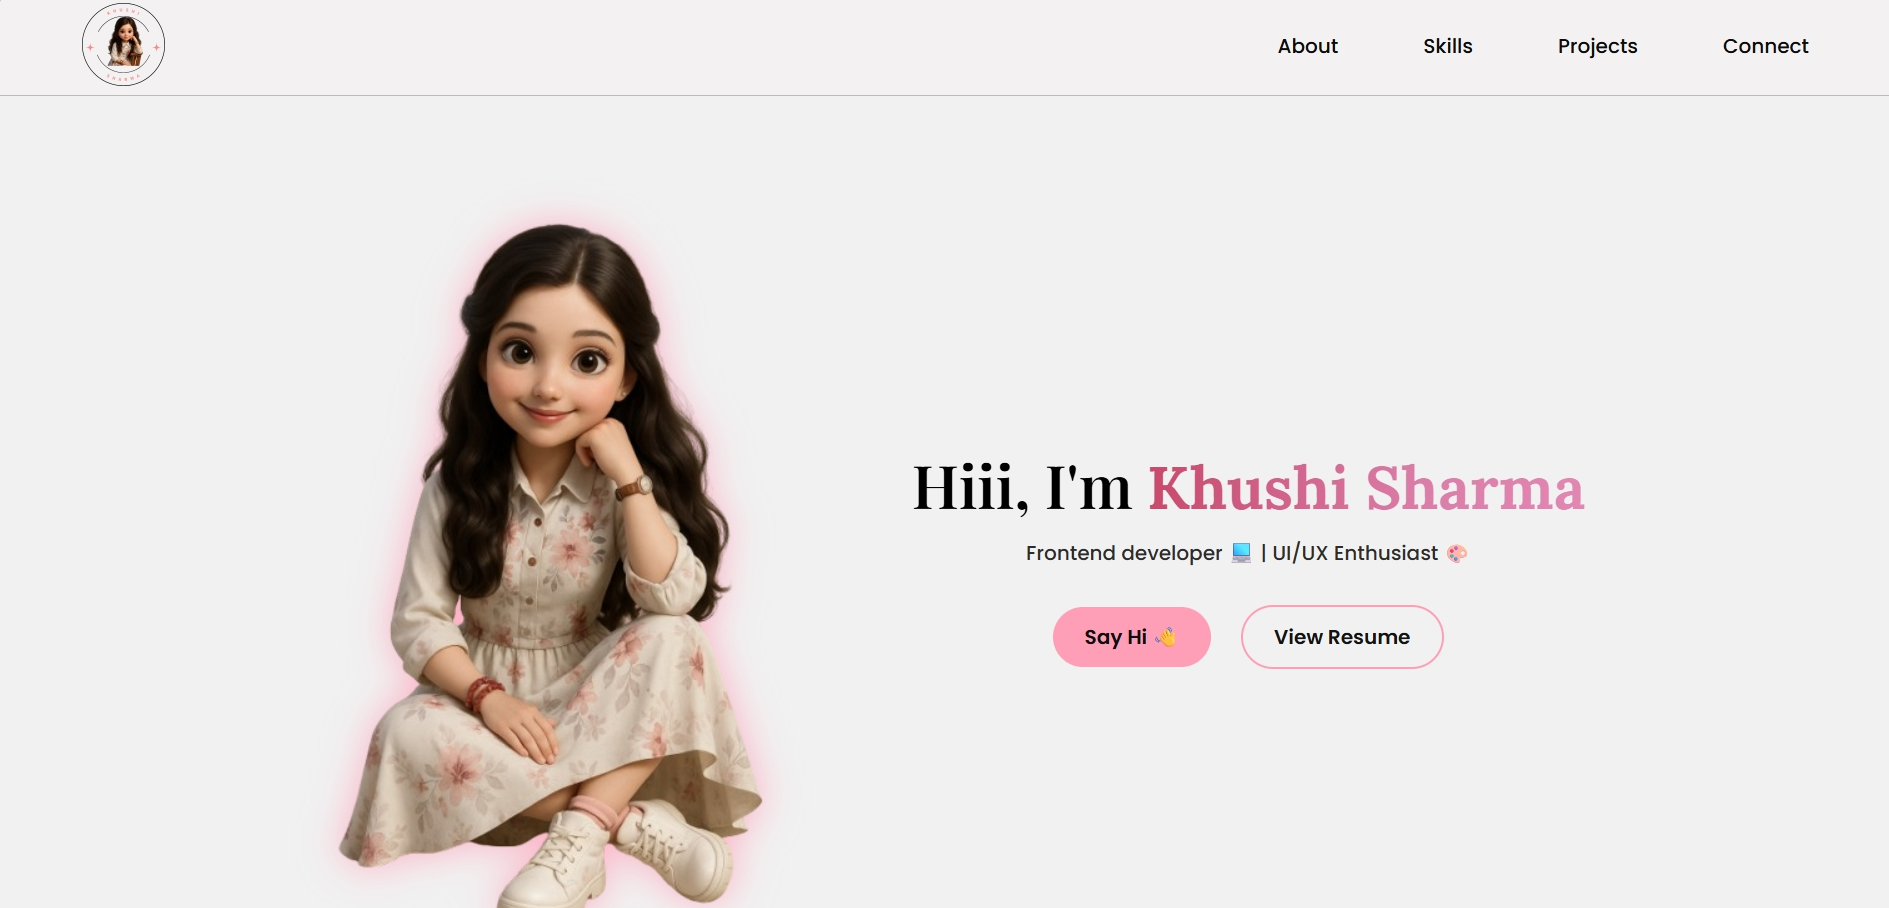
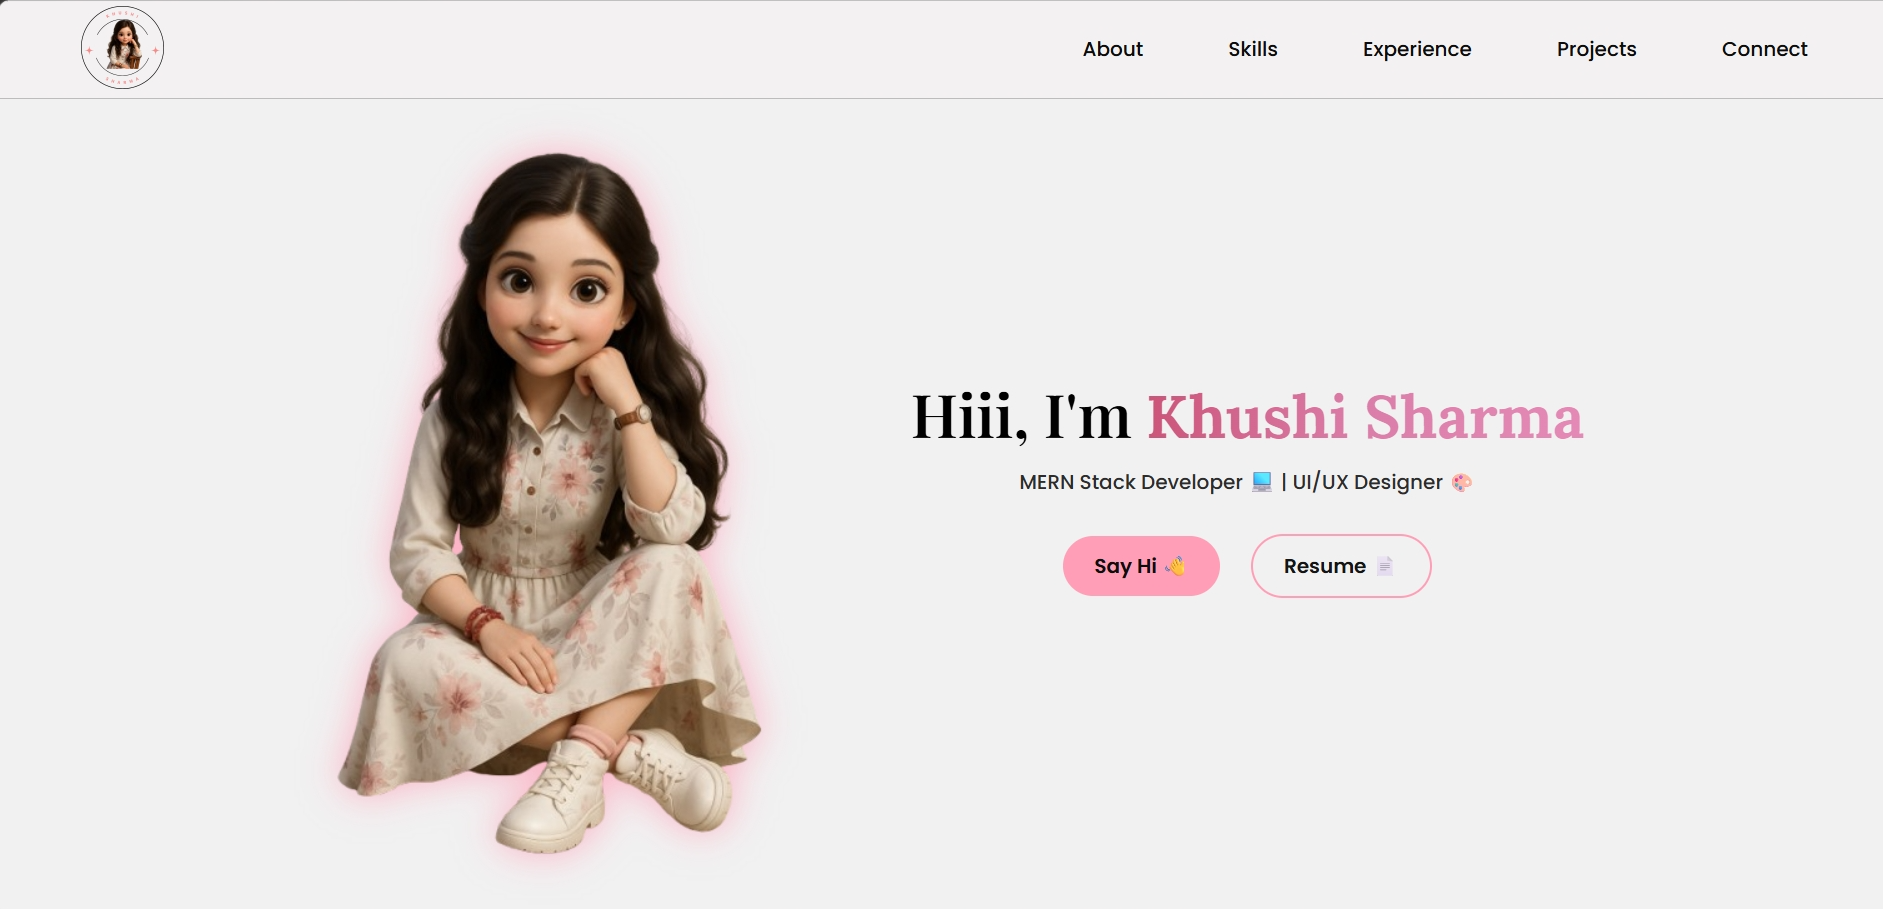
update the pages

diff --git a/design-projects.html b/design-projects.html
@@ -18,31 +18,31 @@
       <!-- first project -->
 
       <div class="project-card">
-        <img src="img/avengers.png" alt="avengers-img" />
+        <img src="img/recipe-design.png" alt="recipe-design" />
 
         <div class="card-content">
-          <h2>Avengers Hero Legacy-UI/UX Concept</h2>
+          <h2>Recipe Platform UI Concept</h2>
           <p>
-            An immersive Figma-driven UI concept celebrating iconic Marvel
-            heroes — Iron Man, Captain America, Black Widow, Scarlet Witch, and
-            Thor. Designed with cinematic visuals, narrative-driven layout, and
-            intuitive horizontal prototyping, the concept creates a mini Marvel
-            experience through storytelling and interaction.
+             A modern UI/UX concept for a community-based recipe sharing
+            platform, designed using Figma. This project highlights a complete
+            design workflow from low-fidelity wireframe to polished desktop and
+            mobile interfaces.
           </p>
 
           <div class="skills">
             <span>Figma</span><span>Visual Design</span><span>Typography</span
-            ><span>Interactive Prototyping</span><span>Storytelling in UI</span>
+            ><span>Interactive Prototyping</span><span>Product Display</span><span>Modern UI/UX</span
+            >
           </div>
 
           <div class="links">
             <a
-              href="https://www.figma.com/design/1xukRAoWb8uzsYIZnINbIj/AVENGERS?node-id=0-1&t=iquQkgC1jgG6c6Sd-1"
+               href="https://www.figma.com/design/RCKeS66Z64oqPfYwCpCTsC/recipe-platform-design?node-id=0-1&t=aXl6cfDWZJhWx1kU-1"
               class="btn live"
               >Live</a
             >
             <a
-              href="https://github.com/khushi05sharma/Avengers-Hero-Legacy-Design"
+             href="https://github.com/khushi05sharma/Recipe-Platform-Concept-Design"
               class="btn code"
               >GitHub</a
             >

diff --git a/index.html b/index.html
@@ -284,7 +284,7 @@
           </div>
           <div class="project-links featured-links">
             <a
-              href="https://olive-and-thyme.vercel.app"
+              href="https://olive-and-thyme-frontend.vercel.app/"
               target="_blank"
               class="btn-live"
               >🌐 Live Demo</a
